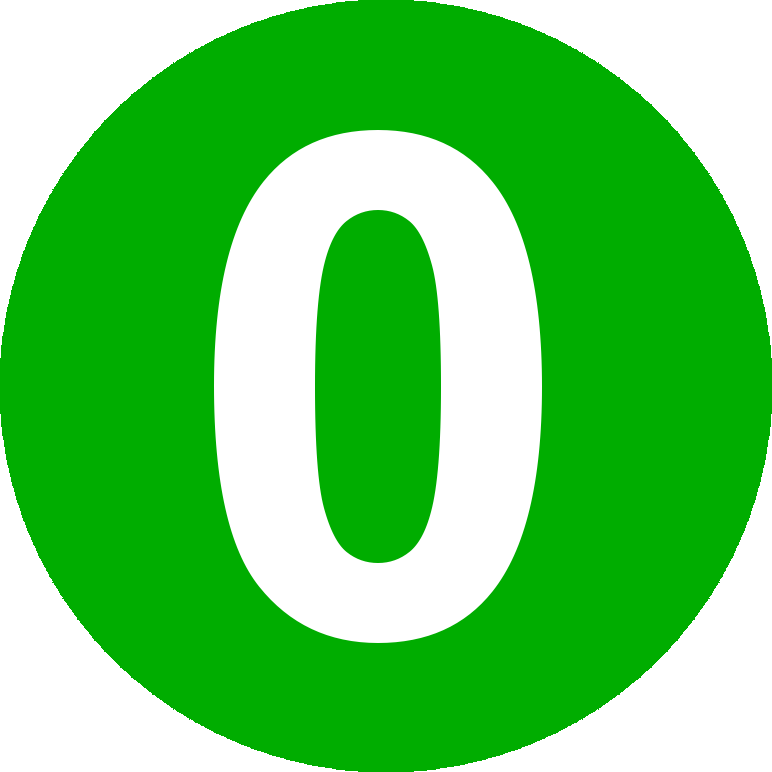
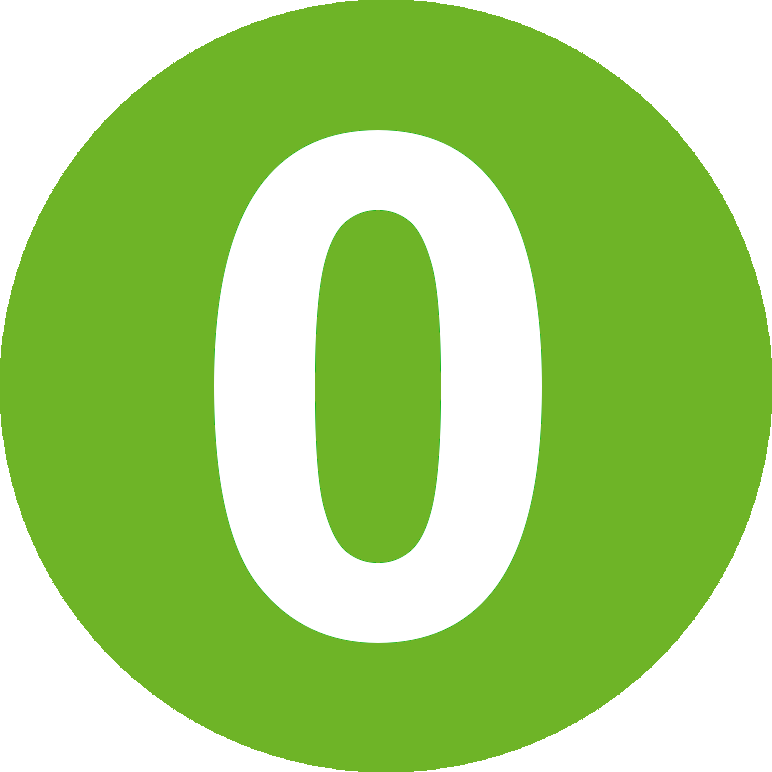
Solution file is not updated if it exists

diff --git a/src/core/ArenaFrame.java b/src/core/ArenaFrame.java
@@ -26,7 +26,7 @@ class ArenaFrame extends JFrame implements ActionListener, MouseListener {
             Y_V = "y-v", R = "r", R_W = "r-w", R_N = "r-n", R_S = "r-s", R_E = "r-e", P = "p", P_W = "p-w",
             P_N = "p-n", P_E = "p-e", P_S = "p-s", PM = "pm", PM_W = "pm-w", PM_N = "pm-n", PM_E = "pm-e",
             PM_S = "pm-s", W = "w"; //shortNames for each Token used for file read/write
-    private final int MAX_WAITING_TOKENS = 5, MAX_LEVEL = 68, FIRST_LEVEl = 61;
+    private final int MAX_WAITING_TOKENS = 5, MAX_LEVEL = 70, FIRST_LEVEl = 61;
     private final String MAP_FILE_EXTENSION = ".csv", MAP_LEVEL_PATH = "levels/",
             SOLUTIONS_FOLDER = "solutions/", LAST_LEVEL_FILE = "LastUnlockedLevel.txt";
 
@@ -416,47 +416,52 @@ class ArenaFrame extends JFrame implements ActionListener, MouseListener {
         //TODO: isOrientationFixed is not considered right now, solution shows the final state only
         //TODO: upper and lower panels have not considered yet
 
-        BufferedWriter bw = null;
+        String solutionFilePath = MAP_LEVEL_PATH + SOLUTIONS_FOLDER + currentLevel + MAP_FILE_EXTENSION;
+        File solutionFile = new File(solutionFilePath);
 
-        try {
-            bw = new BufferedWriter(new FileWriter(MAP_LEVEL_PATH + SOLUTIONS_FOLDER + currentLevel + MAP_FILE_EXTENSION));
+        if(!solutionFile.exists()) {
+            BufferedWriter bw = null;
 
-            Token t = null;
-            String line = "";
-            for (int i = 0; i < height; i++) {
-                line = "";
-                for (int j = 0; j < width; j++) {
-                    t = GameMap.getTokenLocatedInXY(j, i);
-                    if (t != null) {
-                        line += getShortNameFromToken(t);
+            try {
+                bw = new BufferedWriter(new FileWriter(solutionFilePath));
+
+                Token t = null;
+                String line = "";
+                for (int i = 0; i < height; i++) {
+                    line = "";
+                    for (int j = 0; j < width; j++) {
+                        t = GameMap.getTokenLocatedInXY(j, i);
+                        if (t != null) {
+                            line += getShortNameFromToken(t);
+                        }
+                        if (j != width - 1)
+                            line += ",";
+                        else
+                            line += "\n";
+
                     }
-                    if (j != width - 1)
+                    bw.write(line);
+                }
+                //TODO: Tokens in waiting list are written with orientation (e.g., pm-w), if needed it can be converted
+                //  to simple form by deleting everything after '-'
+                line = "";
+                for (int i = 0; i < GameMap.getWaitingTokens().size(); i++) {
+                    line += getShortNameFromToken(GameMap.getWaitingTokens().get(i));
+                    if (i != GameMap.getWaitingTokens().size() - 1)
                         line += ",";
                     else
                         line += "\n";
-
                 }
                 bw.write(line);
-            }
-            //TODO: Tokens in waiting list are written with orientation (e.g., pm-w), if needed it can be converted
-            //  to simple form by deleting everything after '-'
-            line = "";
-            for (int i = 0; i < GameMap.getWaitingTokens().size(); i++) {
-                line += getShortNameFromToken(GameMap.getWaitingTokens().get(i));
-                if (i != GameMap.getWaitingTokens().size() - 1)
-                    line += ",";
-                else
-                    line += "\n";
-            }
-            bw.write(line);
-            line = GameMap.getNoOfTargets() + "\n";
-            bw.write(line);
+                line = GameMap.getNoOfTargets() + "\n";
+                bw.write(line);
 
-            bw.close();
-        } catch (IOException e) {
-            e.printStackTrace();
+                bw.close();
+            } catch (IOException e) {
+                e.printStackTrace();
+            }
+            solutionButton.setEnabled(true);
         }
-        solutionButton.setEnabled(true);
     }
 
     private String getShortNameFromToken(Token t) {

diff --git a/src/core/ArenaPanel.java b/src/core/ArenaPanel.java
@@ -142,7 +142,8 @@ class ArenaPanel extends JPanel implements MouseListener {
                         {
                             //draws a green half rectangle if target is hit
                             if (pwd.getDirection() == Direction.TARGET_HIT || pwd.getDirection() == Direction.MANDATORY_TARGET_HIT) {
-                                g2d.setColor(Color.GREEN);
+                                //g2d.setColor(Color.GREEN);]
+                                g2d.setColor(new Color(110,180,39));
                                 g2d.fillPolygon(new int[]{prev_line_x2 - midWidth / 4, prev_line_x2 + midWidth / 4, prev_line_x2 + midWidth / 4, prev_line_x2 - midWidth / 4},
                                         new int[]{prev_line_y2 - midHeight / 4, prev_line_y2 - midHeight / 4, prev_line_y2 + midHeight / 4, prev_line_y2 + midHeight / 4},
                                         4);
